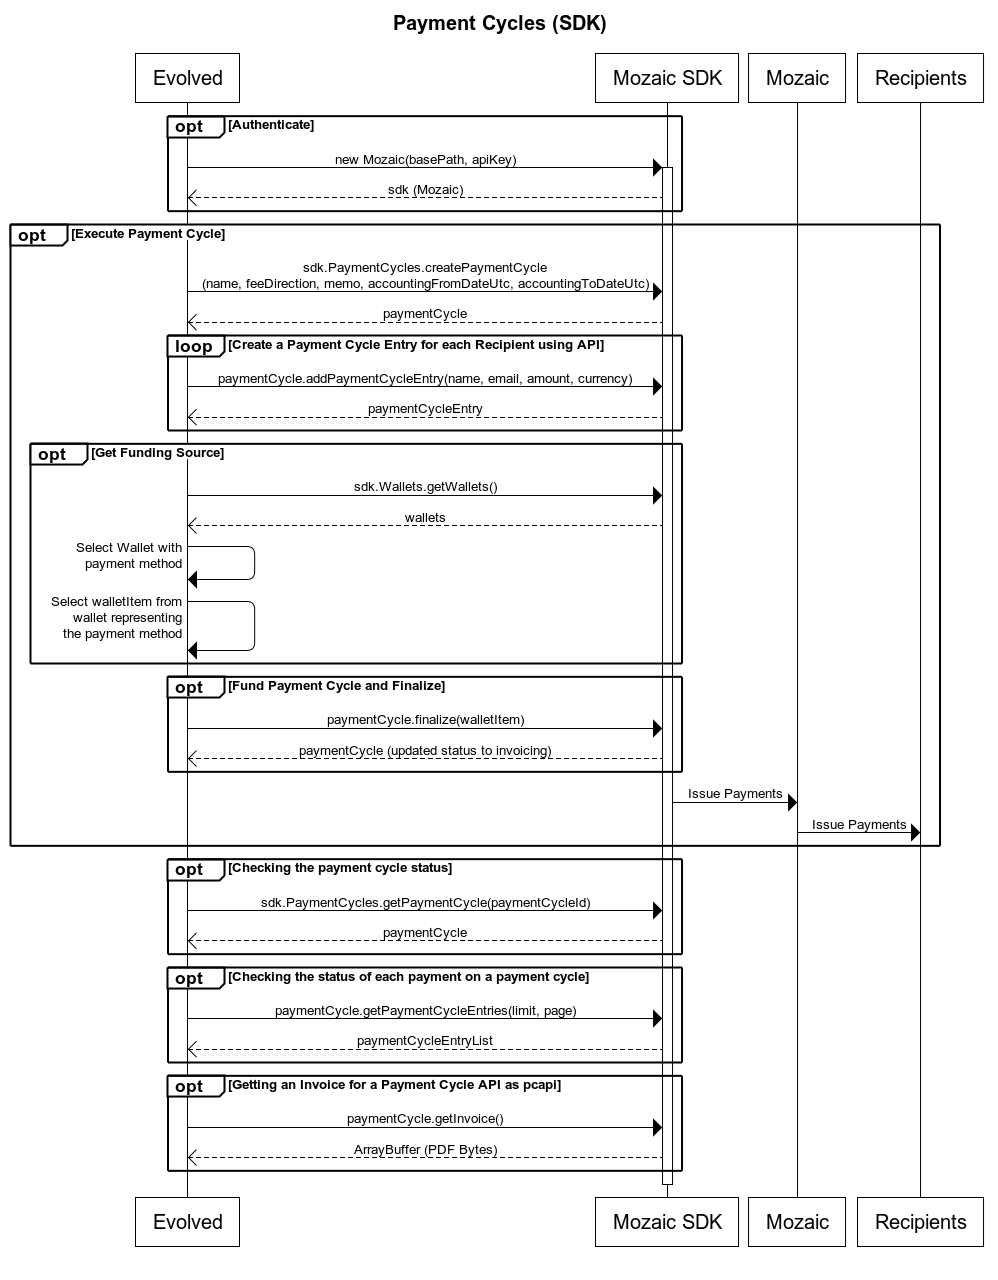
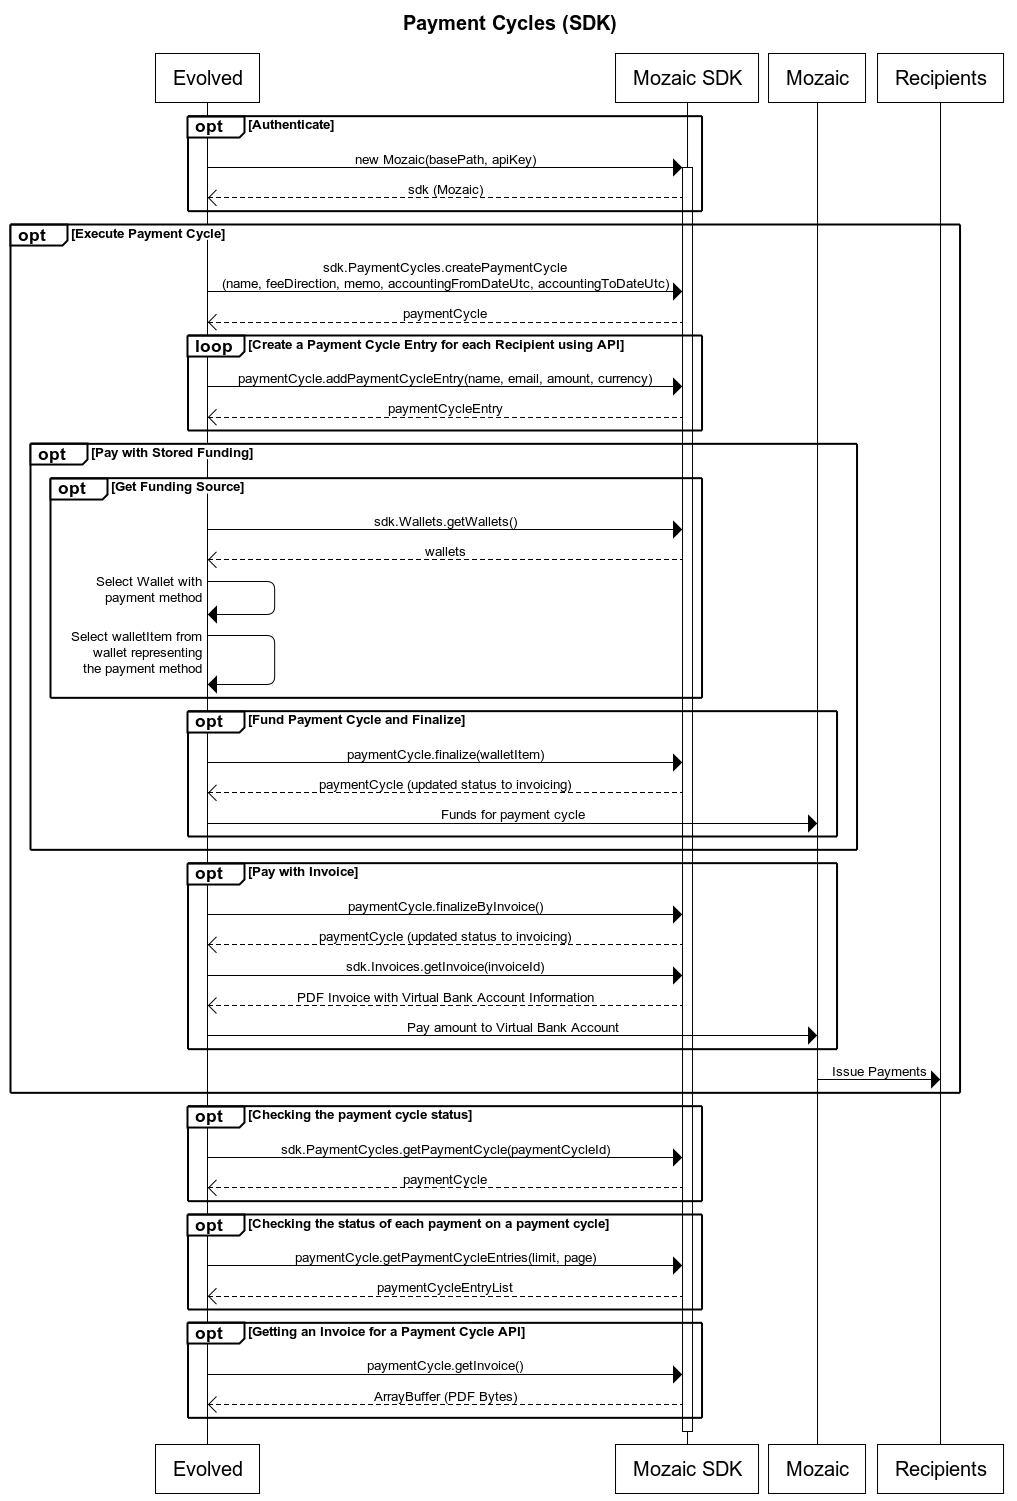
Documentation update for pay by invoice flows.

diff --git a/documents/resources/PaymentCycles.md b/documents/resources/PaymentCycles.md
@@ -7,7 +7,7 @@ category: Guides
 [Back to the SDK](../index.md)
 
 # PaymentCycles (Resource)
-As a company or individual who is going to make a one-time payment of varying amounts to various individuals will create a Payment Cycle. A Payment Cycle has an accounting time period that covers a date range, a memo and a name. These fields can be used for accounting so that the payments for a specific time period can be tracked. 
+As a company or individual who is going to make a one-time payment of varying amounts to various individuals will create a Payment Cycle. A Payment Cycle has an accounting time period that covers a date range, a memo and a name. These fields can be used for accounting so that the payments for a specific time period can be tracked. A payment cycle goes through several stages. While a payment cycle is in draft, you can continue to make changes to it and add additional payment recipients to it as payment cycle entries. Once you have set all of the details for a payment cycle, the payment cycle is finalized. When finalizing the payment cycle, you specify how you would like to fund it. There are two options: pay using a payment method on file, or pay via invoice. Paying my method on file enables the payment cycle to be processed immediately. Funds are withdrawn from your payment method, and then distributed to all of the payment cycle entries that you defined. If you are paying by invoice, you will need to work with your bank to wire funds to the virtual bank account shown on the invoice. Once the invoice is paid, the money is distributed to the recipients defined in the payment cycle entries.
 
 ## Sequence Diagram of a Payment Cycle
 ![A sequence diagram of a payment cycle](../images/sequence.png)
@@ -39,8 +39,8 @@ const entry1 = await paymentCycle.addPaymentCycleEntry("Jamie Johnson", "jamie.j
 const entry2 = await paymentCycle.addPaymentCycleEntry("Pat Jones", "pat.jones@noemail.com", 100, "AUD");
 ```
 
-### Select a Funding Source for the Payment Cycle
-After a Payment Cycle has been created and Payment Cycle Entries have been added to it, the Payment Cycle must be funded so that Payments can be sent to Recipients. In order to fund a Payment Cycle, a Payment Method must be selected from your Wallet using the Wallet API. 
+### Funding a Payment Cycle with a stored Payment Method
+After a Payment Cycle has been created and Payment Cycle Entries have been added to it, the Payment Cycle must be funded so that Payments can be sent to Recipients. If you would like to use a stored debit card or bank account to fund a Payment Cycle, a Payment Method must be selected from your Wallet using the Wallet API. Once finalized, the payment cycle will be processed and payment recipients will be paid. 
 
 ```
 const wallets = await sdk.Wallets.getWallets();
@@ -52,17 +52,22 @@ if(paymentMethod === undefined
     {
         paymentMethod = stripeWallet?.paymentMethods[0];
     }
-```
 
-### Fund and Finalize the Payment Cycle
-Next, Finalize the Payment Cycle which will transfer money from your Payment Method to Mozaic. Once Mozaic has your funding payment, we will proceed to Pay all of the recipients on your Payment Cycle. Note that this call returns an updated paymentCycle object that reflects the status change from "draft" to "invoicing".
-
-```
 paymentCycle = paymentCycle.finalize(paymentMethod);
 ```
 
+### Funding a Payment Cycle with an Invoice
+If you would prefer to fund your payment cycle manually, you can do so by paying a Mozaic invoice. Once finalized, you will need to download the invoice and then work with your bank to send payment to the virtual account specified in the Mozaic invoice. If you would like to test this workflow in a non-production environment, please see the example in the [Invoices](Invoices.md) resource.
+```
+const finalizedPaymentCycle = await paymentCycle.finalizeByInvoice();
+
+const pdfInvoice = await sdk.Invoices.getInvoice(paymentCycle.invoiceId);
+
+fs.writeFileSync("invoice.pdf", Buffer.from(pdfInvoice));
+```
+
 ### Get the status of the Payment Cycle while it is being processed
-The Payment Cycle is sent to a Mozaic payment partner for fulfillment. The payment partner depends on the Wallet you selected above. When the partner updates the payment cycle status, we make that available to you by updating the status in our records. You can get the overall status of the Payment Cycle, or the individual status of each payment that the Payment Cycle will issue. Note that bigger Payment Cycles can take several minutes to complete, please do not make calls less than 5 minutes apart to the API looking for immediate status. 
+The Payment Cycle is sent to a Mozaic payment partner for fulfillment. The payment partner depends on the Wallet you selected above. When the partner updates the payment cycle status, we make that available to you by updating the status in our records. You can get the overall status of the Payment Cycle, or the individual status of each payment that the Payment Cycle will issue. Note that bigger Payment Cycles can take several minutes to complete, please do not make calls less than 5 minutes apart to the API looking for immediate status. To get real time status, we recommend that you use a [web hook](../webhooks.md) instead of polling the Mozaic SDK/API.
 
 ```
 const currentPaymentCycle = sdk.PaymentCycles.getPaymentCycle(oldPaymentCycle.paymentCycleId);

diff --git a/documents/webhooks.md b/documents/webhooks.md
@@ -1,0 +1,50 @@
+---
+title: Web Hooks
+group: Documents
+category: Guides
+---
+
+[Back to the SDK](index.md)
+
+# Mozaic Web Hooks
+Mozaic offers a wide variety of web hook events that you can subscribe to through the Mozaic web application. 
+
+| Environment | Web Hook Control Panel |
+| ----------- | ----------- | 
+| Sandbox | https://app.sandbox.mozaic.io/account/web-hooks |
+
+Once you add your web hook endpoint to your account, Mozaic will begin sending you events by calling your endpoint with information about the event. A list of events that you can subscribe to is available in the control panel along with logs and activity metrics. 
+
+## Web Hook Descriptions
+
+### Funding Failed (funding-failed)
+This event is raised when the payment sender's funding payment fails. This can occur when Mozaic attempts to charge your stored payment method while funding a payment cycle in progress. If you receive this event, you should check the results of the action related to the funding and resubmit it after correcting the funding error.
+
+### Invoice Created (invoice-created)
+This event is sent when an invoice has been created. Once you finalize a payment cycle, Mozaic will create an invoice for the payment. If you used a stored funding method to fund the payment, then the invoice is for your records. If you are paying by invoice, then the invoice will also contain a virtual bank account that you can wire money to and complete payment for your payment cycle. 
+
+### Invoice Paid (invoice-paid)
+This event is sent when an invoice has been paid. Once the invoice is paid, then the related workflow is completed. When the invoice is related to a payment cycle, then invoice payment triggers the payment cycle to complete. payments will be issued to all recipients on the payment cycle. 
+
+### Payment Completed (payment-complete)
+This event is raised when the payment is completed to a recipient. If the recipient was in your contacts list, then the payment is completed automatically. If the recipient is not in your contacts list, then they must accept the payment before it can be completed. This event will not be sent until the payment is completed.
+
+### Payment Created (payment-created)
+This event is raised when your payment has been funded and is on its way to a recipient. You will receive this notification for each payment sent as part of a payment cycle. The recipient must have you in their contacts list or accept your payment before the payment can be completed.
+
+### Payment Cycle Entry Updated (payment-cycle-entry-updated)
+This event is sent when a payment cycle entry has been updated. Each payment recipient on your payment cycle is represented by a payment cycle entry consisting of a name, email address, amount and currency. As each recipient is paid in a payment cycle, this event is raised to indicate the status of the payment and provide details about the payment.
+
+### Payment Cycle Updated (payment-cycle-updated)
+This event is sent when a payment cycle is updated. A payment cycle has several stages. 
+* Draft: The payment cycle has been created and is still being modified. 
+* Locked: The payment cycle can not be modified but has not been finalized yet. 
+* Processing: The payment cycle has been funded and payments are being sent. 
+* Invoicing: The payment cycle is waiting for funding. The funding can be automatically withdrawn from your stored payment sources or provided manually via bank transfer. 
+* Cancelled: The payment cycle has been cancelled by the requestor or via system automation. 
+* Completed: All payment recipients have been sent payments. 
+* CompletedWithErrors: One or more payment recipients on the payment cycle have not been paid. Manual correction is required to complete payment to these recipients. 
+* Failed: The payment cycle could not send funds to the payment recipients. Inspect the payment cycle for more details. 
+
+### Payment Updated (payment-updated)
+This event is sent when a payment has been updated. This event can be used to detect when a payment recipient has accepted or rejected their payment.

diff --git a/documents/index.md b/documents/index.md
@@ -37,13 +37,16 @@ const sdk = new Mozaic(<End Point>, <Personal Access Token>);
 
 Creating an instance of the SDK is very cheap and it is also stateless. You can keep it globally, or create one whenever you need to use it.
 
+## Web Hooks
+Mozaic provides a rich set of Web Hooks that enables direct callbacks to your own API when key events happen inside the system. For more information and documentation of web hook options, please see [Web Hooks](webhooks.md).
+
 ## Resources
 
-The Mozaic SDK consists of *Resources*. These are functional groupings of services and logic that let you perform actions with the Mozaic API. Each resource will have a main level object that is the main interface to other classes and functionality in the Resource. Resources can call other Resources and you may use several Resources together to complete a business process. The SDK's goal is to make this as easy and intuitive as possible.
+The Mozaic SDK consists of *Resources*. These are functional groupings of services and logic that let you perform actions with the Mozaic API. Each resource will have a top level object that is the main interface to other classes and functionality in the Resource. Resources can call other Resources and you may use several Resources together to complete a business process. The SDK's goal is to make this as easy and intuitive as possible.
 
 ### [Invoices](resources/Invoices.md)
 
-The [Invoices](resources/Invoices.md) resource enables you to download the PDF bytes of an invoice. You can then send them to a UI or download the bytes to a local file. 
+The [Invoices](resources/Invoices.md) resource enables you to download the PDF bytes of an invoice. You can then send them to a UI or download the bytes to a local file. You can also use this resource to mark an invoice as paid which will then use your Mozaic balance to fund your payment cycle.
 
 ### [PaymentCycles](resources/PaymentCycles.md)
 
@@ -51,8 +54,9 @@ The [PaymentCycles](resources/PaymentCycles.md) resource enables you to create a
 
 ### [Permissions](resources/Permissions.md)
 
-The [Permissions](resources/Permissions.md) resource enables you to get a list of UI visibility permissions for the current Personal Access Token used to authenticate to the SDK. If you are running into issues doing an action with the API, it might be because your Personal Access Token is lacking the correct security setup. Contact your Mozaic account representative to correct any issues.
+The [Permissions](resources/Permissions.md) resource enables you to get a list of UI visibility permissions for the current Personal Access Token used to authenticate to the SDK. If you are running into issues while doing an action with the API, it might be because your Personal Access Token is lacking the correct security setup. Contact your Mozaic account representative to correct any issues.
 
 ### [Wallets](resources/Wallets.md)
 
 The [Wallets](resources/Wallets.md) resource enables you to manipulate your stored payment and payout methods. You will use your wallet to fund payment cycles, withdraw money from your Mozaic account and other wallet actions.
+

diff --git a/documents/resources/Invoices.md b/documents/resources/Invoices.md
@@ -6,6 +6,17 @@ category: Guides
 
 [Back to the SDK](../index.md)
 
-### Invoices (Resource)
+# Invoices (Resource)
 
-Invoice specific workflow examples: TBD.
+Mozaic uses invoices to request money from you to pay other people. When you create a [Payment Cycle](PaymentCycles.md), you will need to provide funding for it before Mozaic can pay your recipients. If you are using a funding source like a Bank Account or a Debit Card, then Mozaic can transfer money from this funding source to your payment recipients. If you would prefer to manage this payment yourself, Mozaic can send you an invoice instead. You can then work with your bank to wire money to the virtual account that Mozaic will provide on your invoice. 
+
+## Testing an Invoice Payment
+
+While there isn't a way to test transferring money to your Mozaic virtual account on a test invoice, you can use the Mozaic SDK to make an invoice as paid. When you do this, Mozaic will use your virtual account balance to fund your payment cycle. As part of your sandbox setup, Mozaic will add money to this virtual account balance to enable you to test the integration in the sandbox environment. 
+
+### Marking an Invoice as Paid (Example)
+```
+const finalizedPaymentCycle = await paymentCycle.finalizeByInvoice();
+
+const paidInvoice = await client.Invoices.payInvoice(finalizedPaymentCycle.invoiceId);
+```

diff --git a/documents/resources/Permissions.md b/documents/resources/Permissions.md
@@ -5,6 +5,6 @@ category: Guides
 
 [Back to the SDK](../index.md)
 
-### Permissions (Resource)
+# Permissions (Resource)
 
-Permissions specific workflow examples: TBD.
+Mozaic uses permissions to set UI visibility on its front end applications. This information may also be useful for you if you are running into permission denied errors when trying to use various resources in the SDK. If you run into permission issues, please reach out to your Mozaic account representative. 

diff --git a/documents/resources/Wallets.md b/documents/resources/Wallets.md
@@ -6,6 +6,6 @@ category: Guides
 
 [Back to the SDK](../index.md)
 
-### Wallets (Resource)
+# Wallets (Resource)
 
-Wallet specific workflow examples: TBD.
+A Mozaic wallet is a collection of Payment and Payout methods combined with the current amount that Mozaic is holding for your Mozaic account. You can move funds between your funding sources, your Mozaic account and your payment methods.
